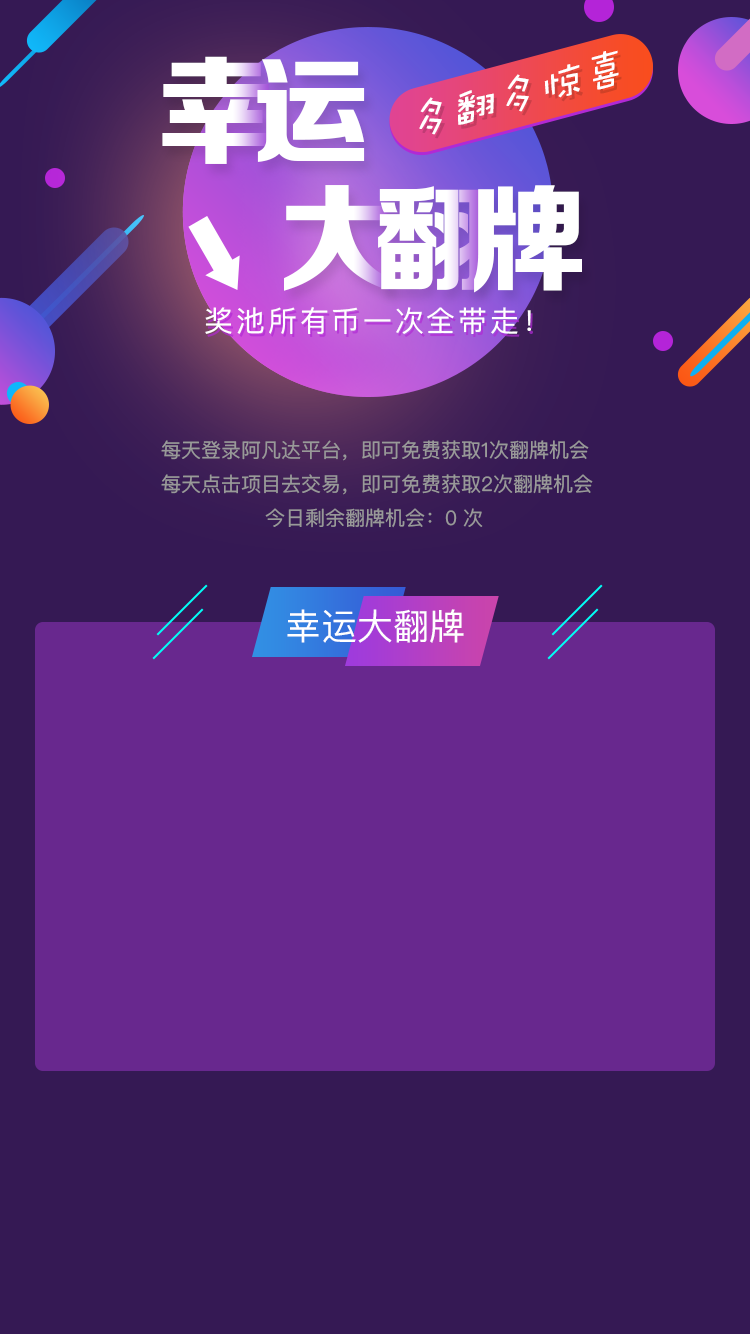
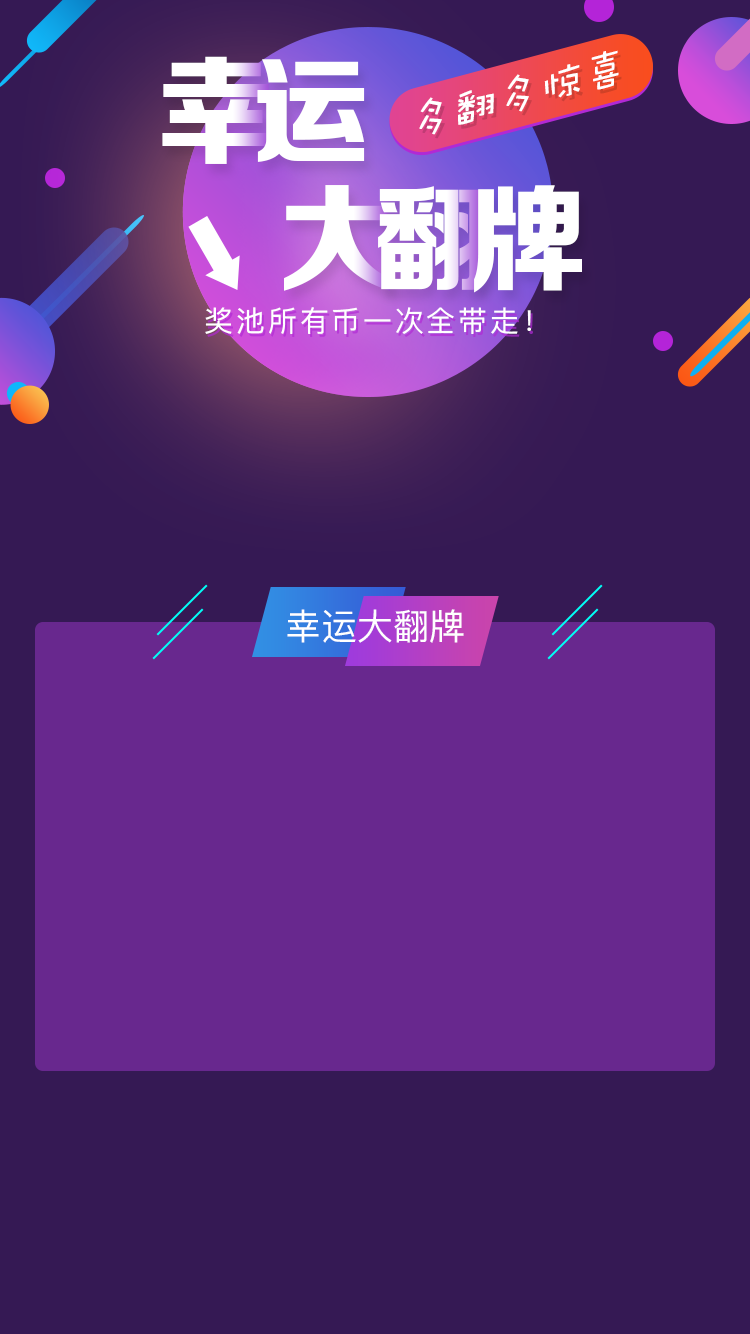
activity

Changed region(s): [[0.2147, 0.3073, 0.7973, 0.3996]]

diff --git a/src/pages/activity/activity.vue b/src/pages/activity/activity.vue
@@ -1,13 +1,68 @@
 <template>
     <div class="activity">
-
+        <div class="activity-notic">
+            <div class="activity-notic-item">每天登录阿凡达平台，即可免费获取1次翻牌机会</div>
+            <div class="activity-notic-item">每天点击项目去交易，即可免费获取2次翻牌机会</div>
+            <div class="activity-notic-item">今日剩余翻牌机会：{{num}} 次</div>
+        </div>
+        <div class="activity-update">
+            <button>开始洗牌</button>
+        </div>
+        <div class="activity-rule">
+            翻牌规则>
+        </div>
     </div>
 </template>
 <script>
 export default {
-
+    data() {
+        return {
+            num: 8,
+        };
+    },
 };
 </script>
 <style lang="scss" scoped>
-
+@import '~@/assets/css/global.scss';
+.activity{
+    width: 100%;
+    height: 100%;
+    background: url('../../assets/imgs/img/surprise.png');
+    background-size:100% 100%;
+    background-attachment: fixed;
+    position: relative;
+    &-notic{
+        position: absolute;
+        top: 32%;
+        width: 100%;
+        font-size: 10px;
+        color:rgba(153,153,153,1);
+        margin: 0 auto;
+        &-item{
+            margin-bottom: 5px;
+            text-align: center;
+        }
+    }
+    &-update{
+        position: absolute;
+        bottom: 10%;
+        text-align: center;
+        width: 100%;
+        button{
+            width:168px;
+            height:44px;
+            background:linear-gradient(-60deg,rgba(212,68,168,1),rgba(168,73,182,0.8),rgba(128,78,197,1),rgba(71,85,216,1));
+            color:rgba(255,255,255,1);
+            font-size: 18px;
+        }
+    }
+    &-rule{
+        position: absolute;
+        bottom: 6%;
+        width: 100%;
+        text-align: center;
+        font-size: 12px;
+        color:rgba(102,102,102,1);
+    }
+}
 </style>
